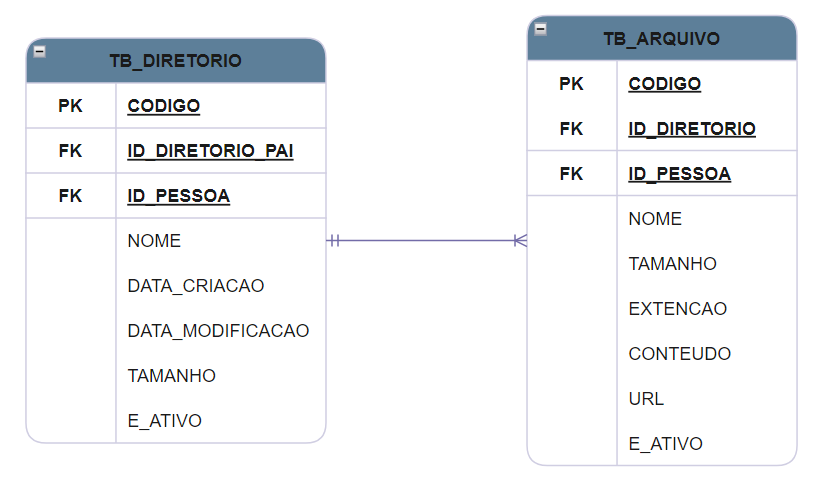
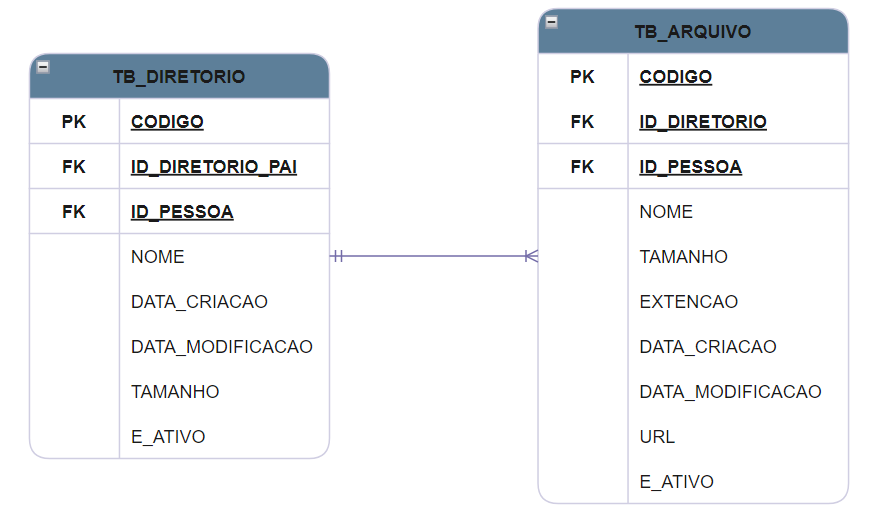
:dart: Feature: Implementar mapeamento de dados (Arquivo)

diff --git a/src/main/java/br/com/quintinno/sisgerarqapi/model/ArquivoModel.java b/src/main/java/br/com/quintinno/sisgerarqapi/model/ArquivoModel.java
@@ -1,0 +1,155 @@
+package br.com.quintinno.sisgerarqapi.model;
+
+import java.io.Serializable;
+import java.util.Date;
+import java.util.Objects;
+import java.util.UUID;
+
+import javax.persistence.Column;
+import javax.persistence.Entity;
+import javax.persistence.GeneratedValue;
+import javax.persistence.GenerationType;
+import javax.persistence.Id;
+import javax.persistence.JoinColumn;
+import javax.persistence.ManyToOne;
+import javax.persistence.Table;
+
+@Entity
+@Table(name = "TB_ARQUIVO")
+public class ArquivoModel implements Serializable {
+
+	private static final long serialVersionUID = 1L;
+
+	@Id
+	@GeneratedValue(strategy = GenerationType.AUTO)
+	@Column(name = "CODIGO", unique = true, nullable = false)
+	private UUID codigo;
+	
+	@ManyToOne
+	@JoinColumn(name = "ID_DIRETORIO", nullable = false)
+	private DiretorioModel diretorioModel;
+	
+	@Column(name = "ID_PESSOA", unique = true, nullable = false)
+	private UUID pessoa;
+	
+	@Column(name = "NOME", nullable = false)
+	private String nome;
+	
+	@Column(name = "TAMANHO", nullable = false)
+	private Integer tamanho;
+	
+	@Column(name = "EXTENCAO", nullable = false)
+	private String extencao;
+
+	@Column(name = "DATA_CRIACAO", nullable = false)
+	private Date dataCriacao;
+
+	@Column(name = "DATA_MODIFICACAO", nullable = false)
+	private Date dataModificacao;
+	
+	@Column(name = "URL", nullable = false)
+	private String url;
+	
+	@Column(name = "E_ATIVO", nullable = false)
+	private Boolean eAtivo;
+	
+	public ArquivoModel() { }
+
+	public UUID getCodigo() {
+		return codigo;
+	}
+
+	public void setCodigo(UUID codigo) {
+		this.codigo = codigo;
+	}
+
+	public DiretorioModel getDiretorioModel() {
+		return diretorioModel;
+	}
+
+	public void setDiretorioModel(DiretorioModel diretorioModel) {
+		this.diretorioModel = diretorioModel;
+	}
+
+	public UUID getPessoa() {
+		return pessoa;
+	}
+
+	public void setPessoa(UUID pessoa) {
+		this.pessoa = pessoa;
+	}
+
+	public String getNome() {
+		return nome;
+	}
+
+	public void setNome(String nome) {
+		this.nome = nome;
+	}
+
+	public Integer getTamanho() {
+		return tamanho;
+	}
+
+	public void setTamanho(Integer tamanho) {
+		this.tamanho = tamanho;
+	}
+
+	public String getExtencao() {
+		return extencao;
+	}
+
+	public void setExtencao(String extencao) {
+		this.extencao = extencao;
+	}
+
+	public Date getDataCriacao() {
+		return dataCriacao;
+	}
+
+	public void setDataCriacao(Date dataCriacao) {
+		this.dataCriacao = dataCriacao;
+	}
+
+	public Date getDataModificacao() {
+		return dataModificacao;
+	}
+
+	public void setDataModificacao(Date dataModificacao) {
+		this.dataModificacao = dataModificacao;
+	}
+
+	public String getUrl() {
+		return url;
+	}
+
+	public void setUrl(String url) {
+		this.url = url;
+	}
+
+	public Boolean geteAtivo() {
+		return eAtivo;
+	}
+
+	public void seteAtivo(Boolean eAtivo) {
+		this.eAtivo = eAtivo;
+	}
+
+	@Override
+	public int hashCode() {
+		return Objects.hash(codigo);
+	}
+
+	@Override
+	public boolean equals(Object obj) {
+		if (this == obj)
+			return true;
+		if (obj == null)
+			return false;
+		if (getClass() != obj.getClass())
+			return false;
+		ArquivoModel other = (ArquivoModel) obj;
+		return Objects.equals(codigo, other.codigo);
+	}
+
+}
